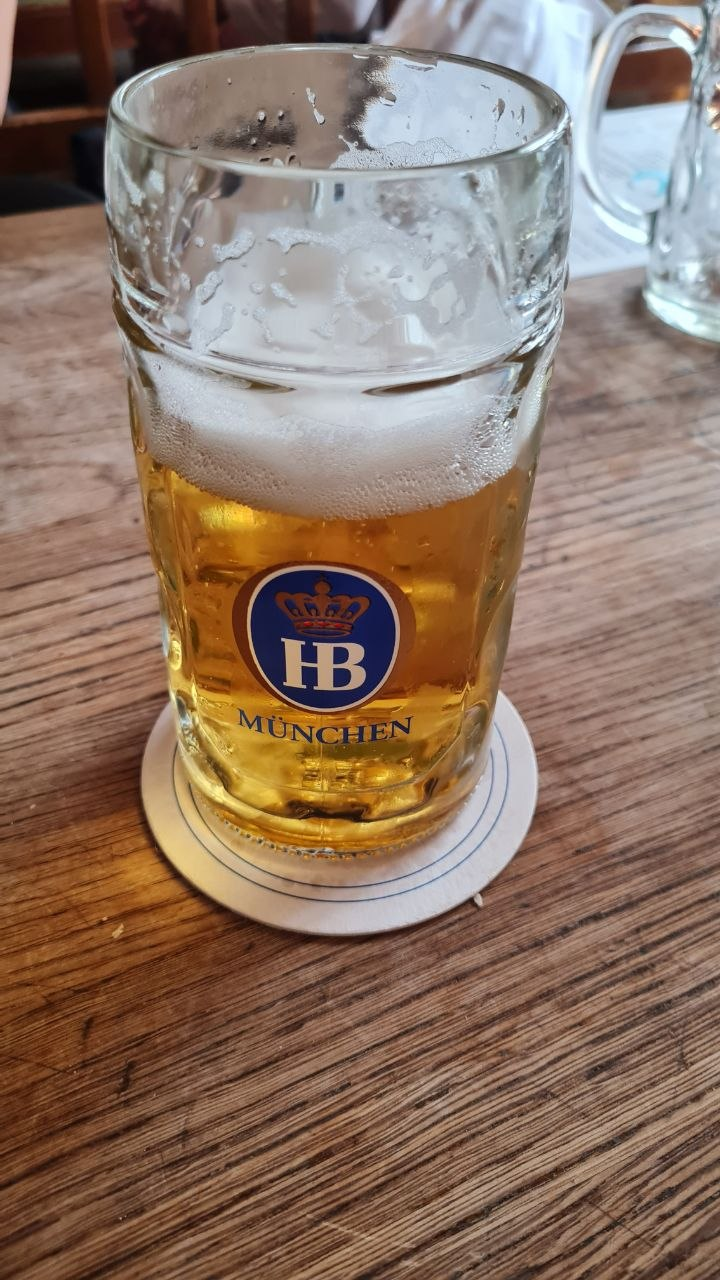
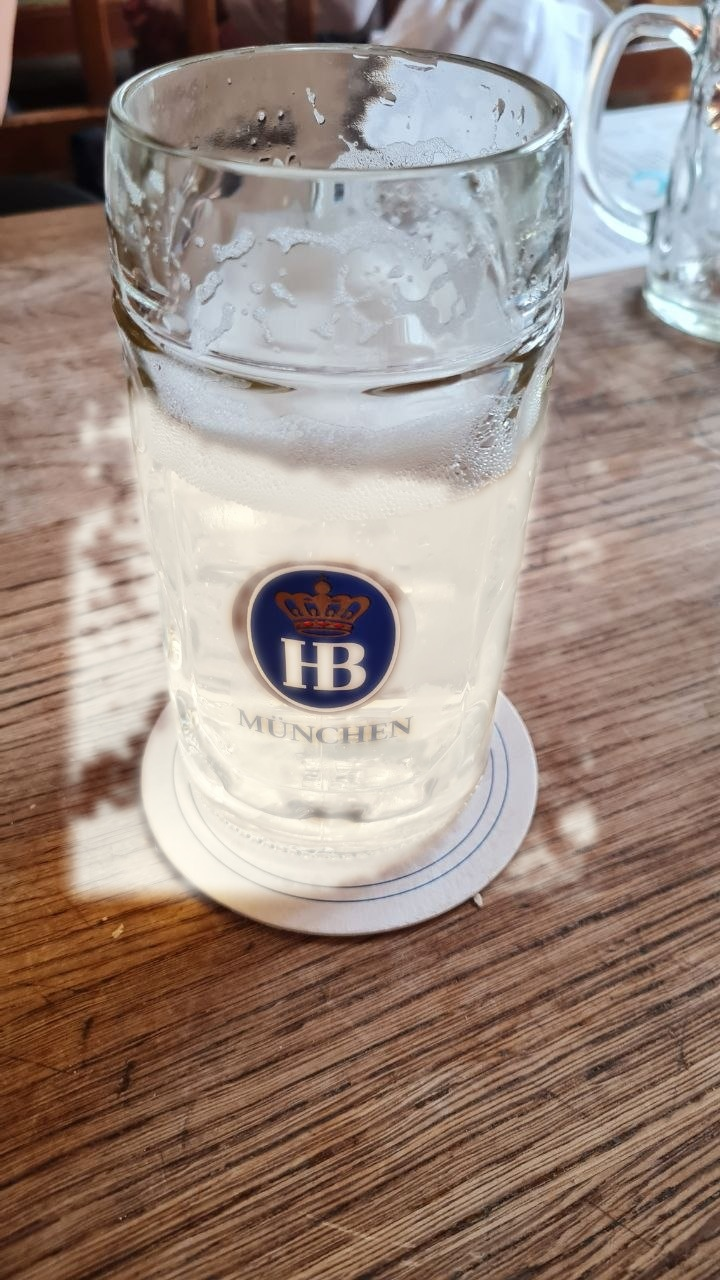
Bölüm 3'teki fotoğraflarda birayı ayrana dönüştür
hofbraeuhaus.jpg ve jugend-ohne-gott.jpg fotoğraflarındaki bira,
bardağın/camın şekli ve ışık-gölge dokusu korunarak opak beyaz bir
ayran görünümüne dönüştürüldü; orijinal fotoğraflar değiştirilmeden
ayrıca saklandı. Fotoğraf açıklamaları da buna göre güncellendi.

Claude-Session: https://claude.ai/code/session_01MxEsEhnHXtehcpzTkdCSP5

Changed region(s): [[0.0611, 0.2812, 0.8556, 0.7188], [0.6722, 0.5625, 0.8556, 0.7188], [0.825, 0.3438, 0.8556, 0.375]]

diff --git a/whitsun-acik-horvath-ve-arlesli-kiz/bolum-3.md b/whitsun-acik-horvath-ve-arlesli-kiz/bolum-3.md
@@ -14,11 +14,11 @@ permalink: /posts/whitsun-acik-horvath-ve-arlesli-kiz/bolum-3/
 
 Bu arada tabii ki Münih'i de gezmeye çalışıyordum. Marienplatz ana meydanı merkezli eski şehir Alman Ortaçağ kentlerini sevenleri -her ne kadar savaş sonrası neredeyse yeniden inşa edildiyse de- belki tatmin edebilir fakat eğer benim gibi ana meydanda eski belediye binası, katedral ve etrafına sıralanmış binalar şeklindeki şehir planından nefret ediyorsanız Sultanahmet'ten devam etmenizi öneririm. Fakat Münih'e gezmeye gelmiş X. ile buluştuğumuz gün gittiğimiz meşhur Hofbraeuhaus München'in fazla turistik yerleri sevmeyen beni şaşırtan güzel bir yemek ve bira sunduğunu kabul etmem gerekiyor. Turdan önce bira mı içtin diye soracak olanlara şimdiden söyleyeyim, cevabım tabii ki de evet.
 
-![Hofbräuhaus München'de bir bira]({{ '/assets/img/munich/hofbraeuhaus.jpg' | relative_url }} "Hofbraeuhaus München'in meşhur bira bardağı.")
+![Hofbräuhaus München'de bir ayran]({{ '/assets/img/munich/hofbraeuhaus.jpg' | relative_url }} "Hofbraeuhaus München'in meşhur bardağında bir ayran.")
 
 Bir parantez de kitapçı Hugendubel'a açmam lazım. Stuttgart'ta da gittiğim bu kitapçının Münih şubesi çok etkileyici değilse de yine de bana paramı harcatmayı başardı. Buradan aldığım Ödon von Horvath'ın "Jugend ohne Gott" (Tanrısız Gençlik) adlı kısa romanı bana ilk turlarda eşlik etti. Nazi döneminin çocuklara ve okullara kadar inen korkunçluğunu anlatan çarpıcı bir eser ve bunu Münih'te okumuş olmam da belki kitabın etkisini artırdı. Türkçeye de çevrilmiş bu novellayı okumadıysanız okumanızı tavsiye ederim.
 
-![Jugend ohne Gott]({{ '/assets/img/munich/jugend-ohne-gott.jpg' | relative_url }} "Ödon von Horvath'ın Jugend ohne Gott'u, açık hava kahvesinde bir birayla.")
+![Jugend ohne Gott]({{ '/assets/img/munich/jugend-ohne-gott.jpg' | relative_url }} "Ödon von Horvath'ın Jugend ohne Gott'u, açık hava kahvesinde bir ayranla.")
 
 İlk üç tur sonunda böylece iki puandaydım ve dördüncü tur eşlendirmesi açıklanmadan kimin geleceğini biliyordum. Aslında daha başlangıç listesini gördüğüm andan itibaren oynayacağımızı biliyordum zira genç Bulgar IM Stoyanov ile aynı turnuvada oynayıp da karşılaşmadığımız hiç olmadı! Skorum bir mağlubiyet ve beraberlik şeklindeydi ve durumu eşitlemek istiyordum. Maalesef bunu başaramadım ama kısa ve acısız bir beraberlik oldu, şikayetçi değilim:
 
